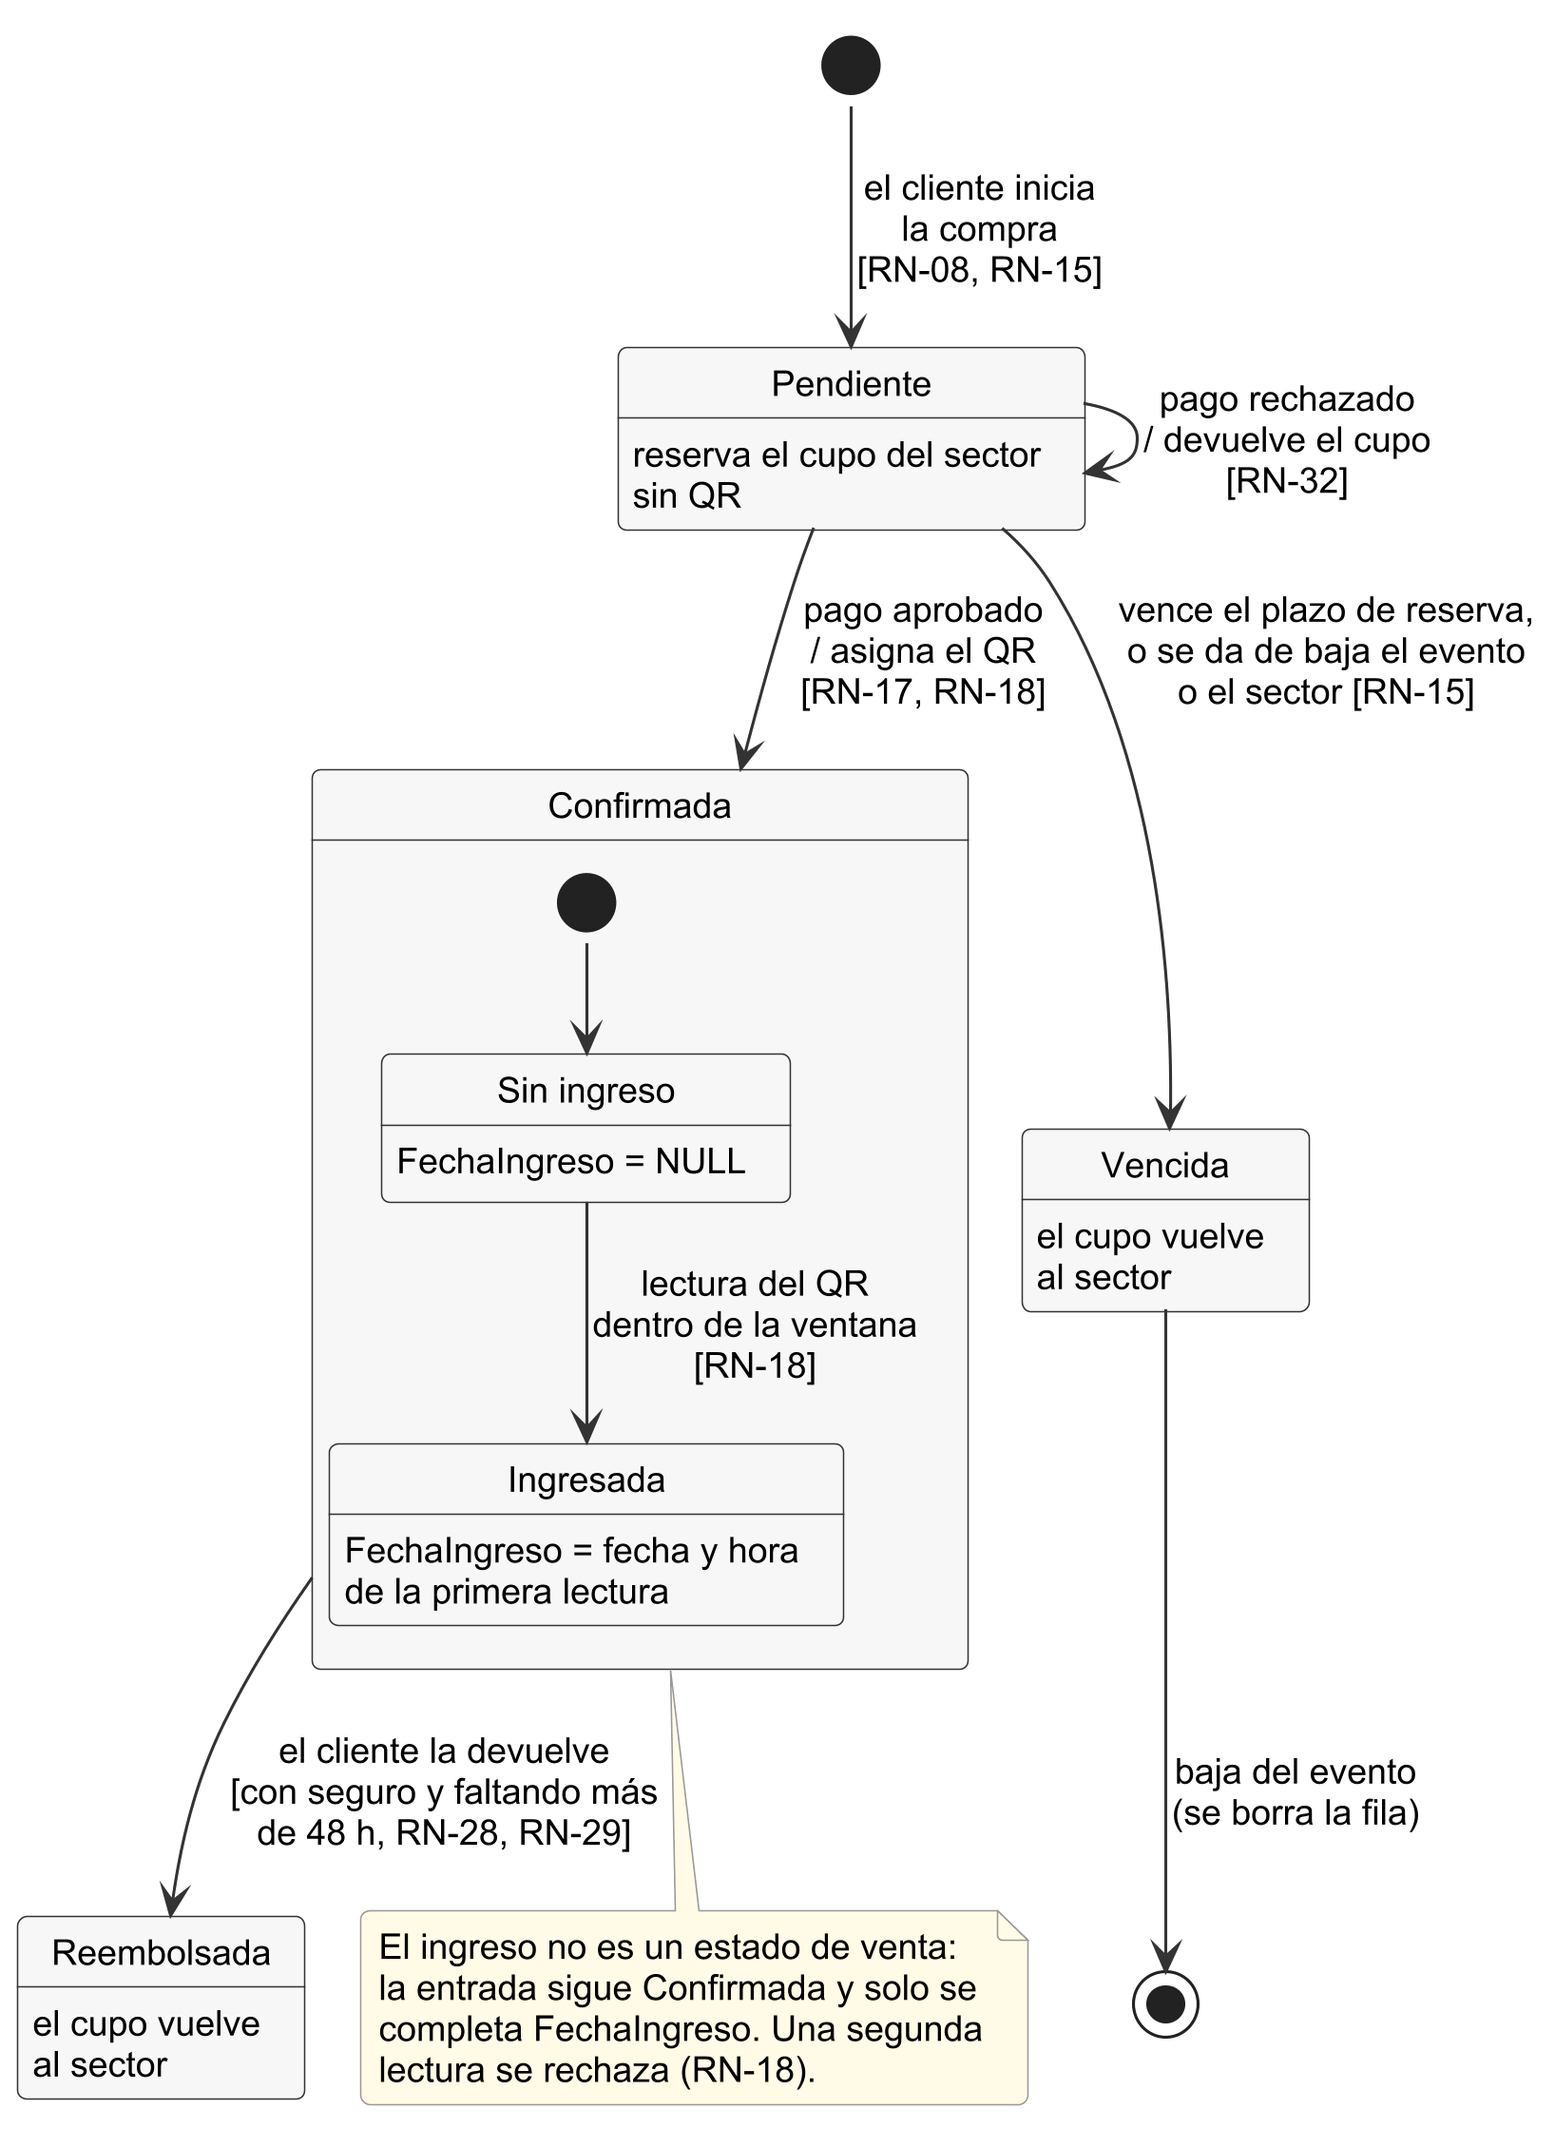
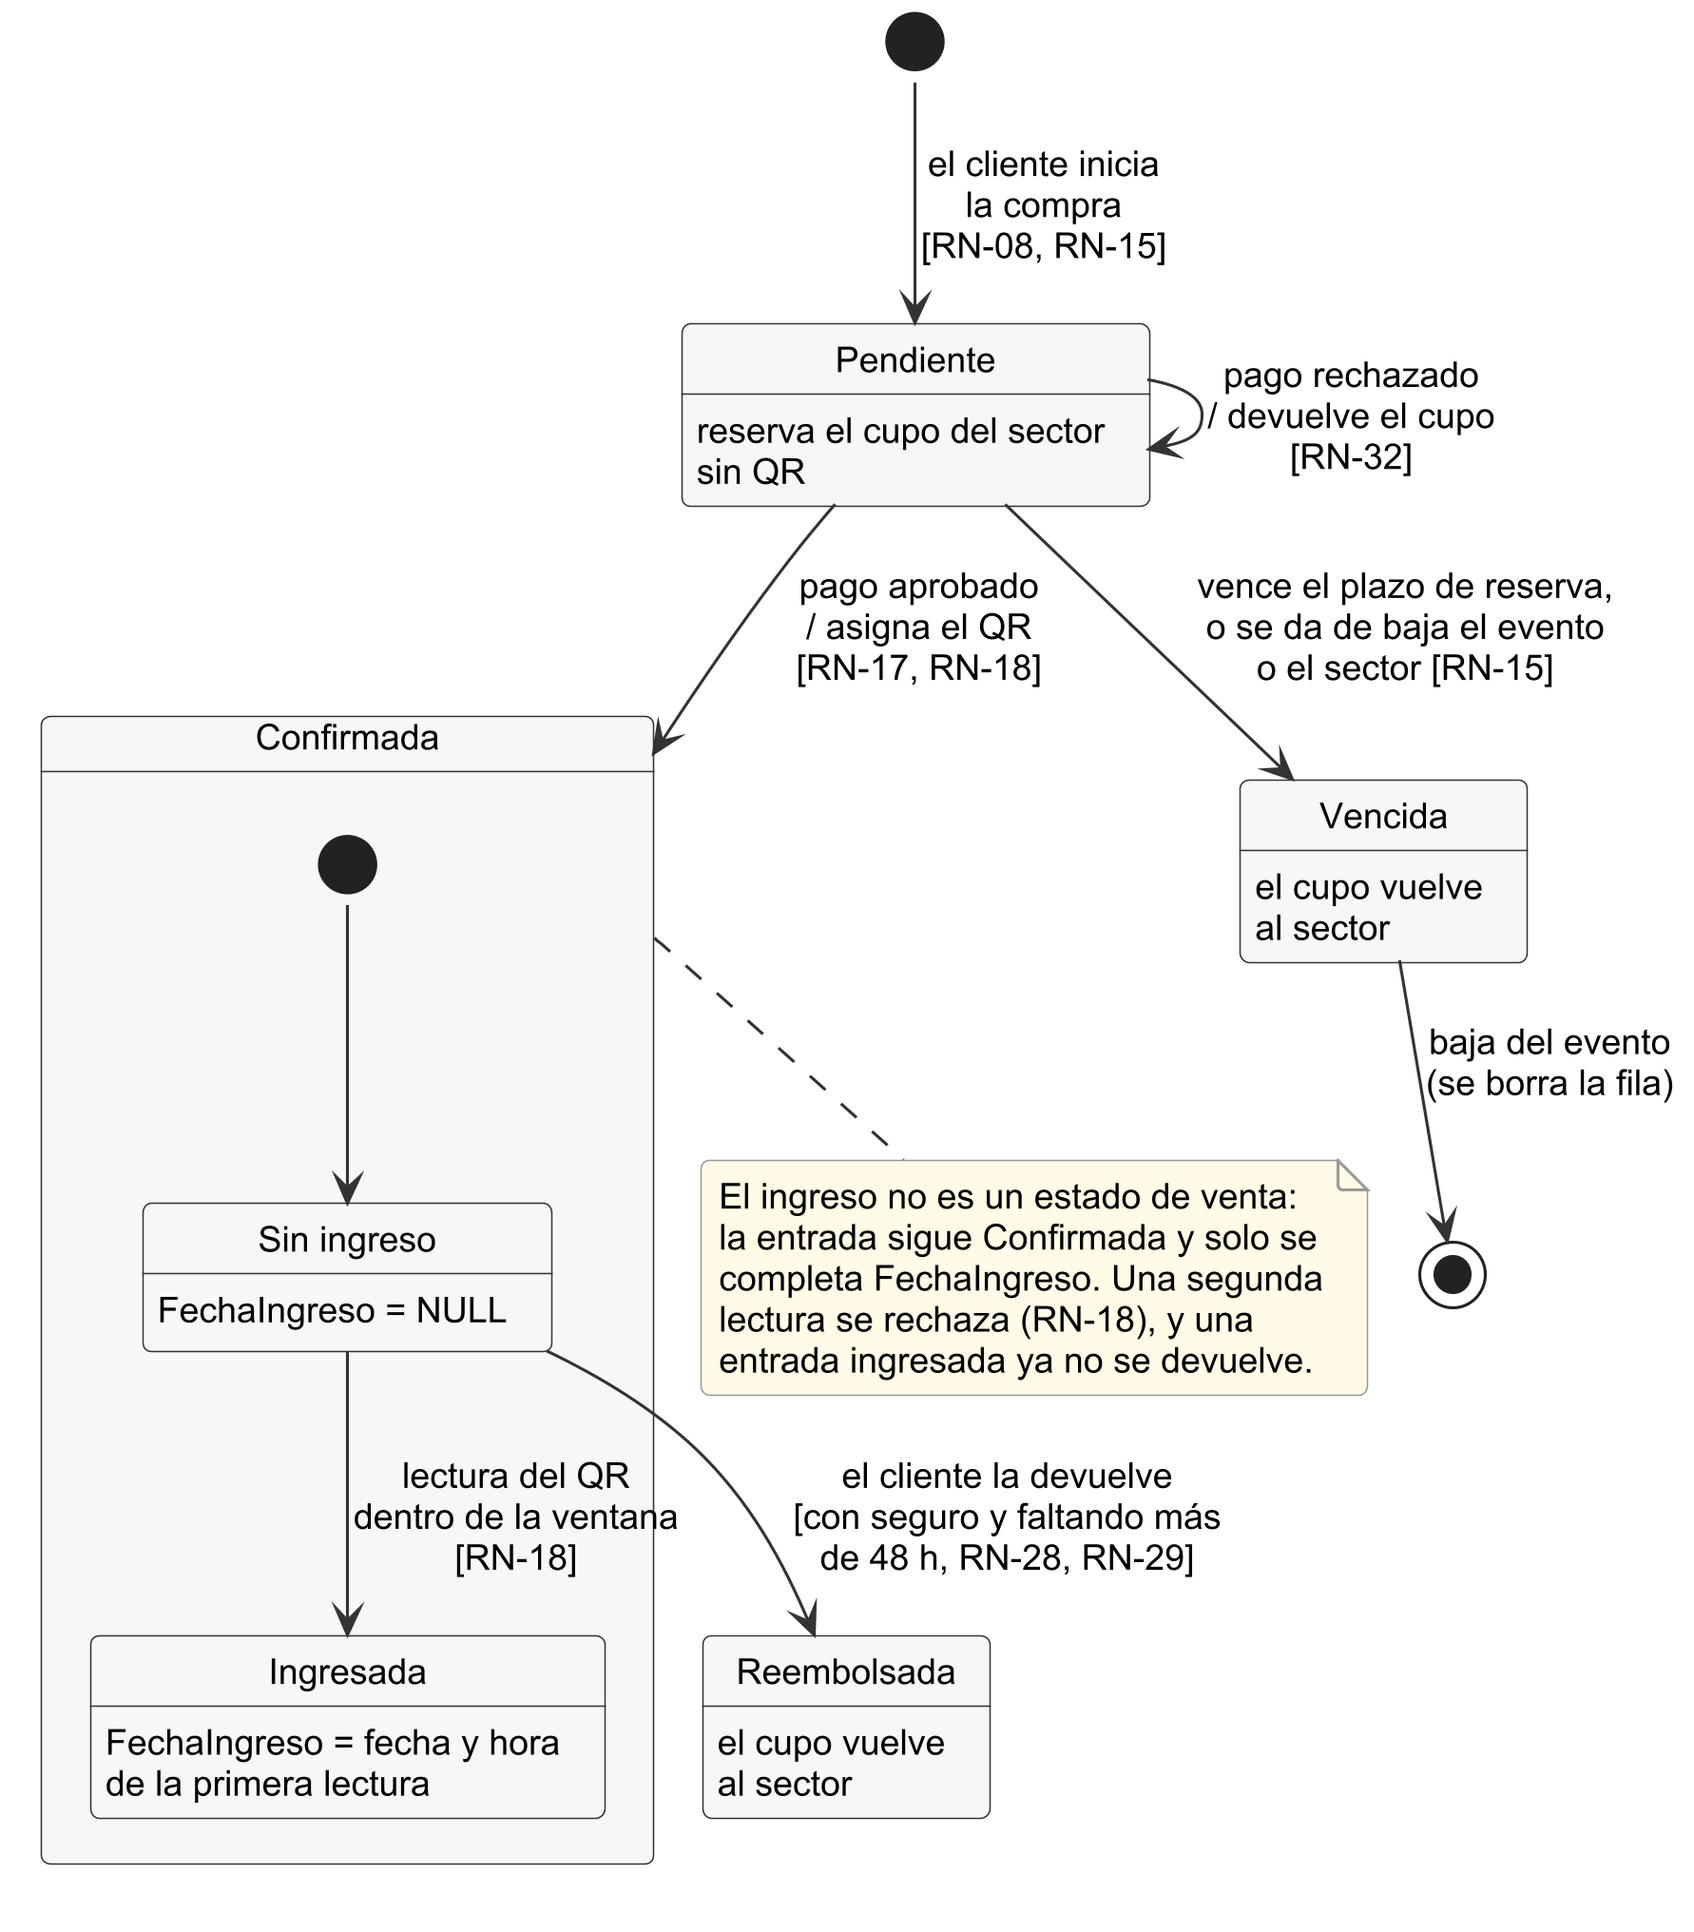
docs: revision externa de cuatro diagramas
- Estados: la devolucion sale de "Sin ingreso"; el diagrama permitia
  devolver una entrada ingresada, que el codigo rechaza. Regenerado.
- Entidad-relacion: por que Entradas guarda el usuario y que
  CantidadVendida vale 1 en cada fila (un QR por entrada, RN-18).
- Robustez: Cliente como actor y como entidad.
- Casos de uso: "Aplicar descuento" y "Pagar" se quedan, con
  justificacion para la defensa (no se pega).
- Filas en "Cambio despues del 16/11" para pp. 87, 88 y 89.

diff --git a/docs/PARA-MAXIMO-DIAGRAMAS.md b/docs/PARA-MAXIMO-DIAGRAMAS.md
@@ -95,6 +95,22 @@ El diagrama del administrador va en la página siguiente, con el título «Diagr
 | Administrador → Generar reportes | Asociación | — | `frmReportes` → `GestorReportes.Crear` / `Ejecutar` |
 | Exportar reporte a PDF → Generar reportes | «extend» | pide exportar | `frmReportes` → `GestorReportes.Exportar` |
 
+**Para la defensa (no se pega): «Aplicar descuento por nivel» y «Pagar la compra».** Criterio de
+JC del 17/11: se quedan. La descomposición funcional no está entre los 16 errores frecuentes del
+profesor (la regla 8 controla la dirección de «include» y «extend» y la condición de «extend», y
+las dos cumplen).
+- **Aplicar descuento por nivel** no es un objetivo del cliente: nadie entra al sistema a «aplicar
+  un descuento». Es un caso de uso de nivel de subfunción, que UML admite como destino de un
+  «include». Se dibuja por dos razones: el descuento por nivel es el diferencial del negocio
+  (OE-3, RF-08, RN-19 a RN-24), y así la regla tiene un lugar visible en el diagrama, trazable
+  hasta `GestorFidelizacion.CalcularDescuento`; y la compra lo ejecuta siempre, sin decisión del
+  cliente, que es lo que expresa el «include». Su comportamiento está especificado dentro de CU-01,
+  no en una especificación propia. Si el profesor pide quitarlo, se quita sin perder nada: el
+  descuento ya vive en CU-01.
+- **Pagar la compra** sí es defendible como objetivo del actor: el cliente paga con su tarjeta, en
+  una pantalla propia (`frmPago`), y el pago puede fallar y reintentarse (RN-32). Va como
+  «include» porque no hay compra sin pago.
+
 **Qué cambió respecto del diagrama viejo:**
 - **Desaparecen** «Ver carrito», «Modificar local», «Eliminar local» y «Gestionar stock de
   entradas», que el sistema no tiene. La pasarela de pago deja de ser un actor.
@@ -330,8 +346,8 @@ figura de ahí, una parte por página.
 |---|---|
 | Fuente | `docs/diagramas/fuentes/estados-entrada.puml` |
 | Imagen | `docs/diagramas/estados-entrada.png` |
-| Insertar a | **16,0 cm** de ancho (22,1 de alto, página entera) |
-| Letra impresa | 10,4 pt |
+| Insertar a | **16,0 cm** de ancho (18,2 de alto) |
+| Letra impresa | 9,5 pt |
 
 **Dónde va:** página 87, debajo de «Diagrama de estados – Ciclo de vida de la entrada».
 Reemplaza la figura de ahí. Como ocupa la página entera, el título pasa a la página nueva.
@@ -343,12 +359,13 @@ Reemplaza la figura de ahí. Como ocupa la página entera, el título pasa a la 
 > tabla `Entradas` y en las sentencias de la capa de datos. La entrada nace Pendiente al iniciarse
 > la compra, con el cupo del sector reservado; pasa a Confirmada cuando el pago se aprueba y recibe
 > su código QR; pasa a Vencida si vence el plazo de reserva o se da de baja el evento o el sector;
-> y pasa a Reembolsada si el cliente la devuelve con seguro contratado y con más de 48 horas de
-> anticipación.
+> y pasa a Reembolsada si el cliente la devuelve con seguro contratado, con más de 48 horas de
+> anticipación y antes de usarla para ingresar.
 >
 > El ingreso al evento no es un estado de venta: la entrada sigue Confirmada y solo se registra la
 > fecha y hora de la primera lectura del código QR. Por eso se modela como un subestado de
-> Confirmada, y no como un quinto estado. Una segunda lectura del mismo código se rechaza (RN-18).
+> Confirmada, y no como un quinto estado. Una segunda lectura del mismo código se rechaza (RN-18),
+> y una entrada que ya ingresó no se puede devolver: la devolución sale del subestado sin ingreso.
 
 **Justificación de transiciones:**
 
@@ -358,7 +375,7 @@ Reemplaza la figura de ahí. Como ocupa la página entera, el título pasa a la 
 | Pendiente → Pendiente | pago rechazado: devuelve el cupo | RN-32 | `GestorCompras.Liberar` → `RepositorioCompras.Liberar` |
 | Pendiente → Confirmada | pago aprobado: asigna el QR | RN-17, RN-18 | `RepositorioEntradas.cs:147`: `SET Estado = 'Confirmada' … WHERE Estado = 'Pendiente'` |
 | Pendiente → Vencida | vence el plazo, o baja del evento o del sector | RN-15 | `RepositorioCompras.MarcarVencidas` y `VencerAbiertas` |
-| Confirmada → Reembolsada | el cliente la devuelve | RN-28, RN-29 | `RepositorioCompras.cs:203`; el plazo, en `GestorCompras.Reembolsar` |
+| Sin ingreso → Reembolsada | el cliente la devuelve | RN-28, RN-29 | `RepositorioCompras.cs:203-204`: `WHERE … Estado = 'Confirmada' AND FechaIngreso IS NULL`; el plazo y el rechazo de una entrada ya usada, en `GestorCompras.Reembolsar` (`GestorCompras.cs:301`) |
 | Sin ingreso → Ingresada | primera lectura del QR dentro de la ventana | RN-18 | `RepositorioEntradas.cs:31-33`: `SET FechaIngreso … WHERE Estado = 'Confirmada' AND FechaIngreso IS NULL` |
 | Vencida → fin | baja del evento: se borra la fila | — | `RepositorioEventos.cs:172` |
 
@@ -366,6 +383,9 @@ Reemplaza la figura de ahí. Como ocupa la página entera, el título pasa a la 
 - **Desaparecen** «Disponible», «Reservada», «Vendida» y «Cancelada», que no existen.
 - **Aparece** «Vencida».
 - **El reembolso** ya no lo dispara un evento cancelado, sino el cliente.
+- **La devolución sale de «Sin ingreso»** (revisión externa de JC, 17/11): antes salía del borde de
+  Confirmada, y eso decía que se podía devolver una entrada ya ingresada, cosa que el código
+  rechaza.
 
 ---
 
@@ -397,6 +417,14 @@ página siguiente.
 > usuario). La relación entre Eventos y Servicios es de muchos a muchos y se resuelve con la tabla
 > intermedia ServiciosEvento. La contraseña se guarda como `PBKDF2$iteraciones$sal$hash`, nunca en
 > texto plano.
+>
+> La tabla Entradas proviene del esquema original, anterior a las compras. Por eso guarda el
+> usuario además de la compra, y por eso la compra y el sector son columnas agregadas después que
+> admiten valores nulos. El sistema escribe en cada entrada el mismo usuario de su compra, y nunca
+> crea una entrada sin compra ni sin sector. Cada fila es una sola entrada: la cantidad vendida
+> vale 1 en todas las filas que guarda el sistema, y cada una tiene su propio código QR, que se
+> admite una sola vez en el ingreso (RN-18). La cantidad elegida para cada sector existe solo
+> mientras se arma el paquete, que no se guarda en la base.
 
 **Restricciones que no entran en la figura** (van en el texto o en una tabla debajo):
 
@@ -572,6 +600,11 @@ de ahí, que era un diagrama de secuencia con los íconos de robustez.
 > fronteras solo con controles, y las entidades solo con controles. Los controles pueden
 > comunicarse entre sí: el control de la compra verifica la identidad del cliente, cobra con la
 > pasarela simulada, genera los códigos QR y usa los controles de paquetes y fidelización.
+>
+> El Cliente aparece dos veces, con dos papeles distintos: como actor es la persona que usa las
+> pantallas, y como entidad es la información que el sistema guarda de ella, su identidad para la
+> sesión y su nivel de fidelidad. El método distingue así a quien interactúa con el sistema de los
+> datos que el sistema conserva sobre él.
 
 **Justificación de conexiones:**
 

diff --git a/docs/LISTA-PARA-MAXIMO.md b/docs/LISTA-PARA-MAXIMO.md
@@ -50,6 +50,9 @@
 > | p. 109, oración inicial y tabla de brechas, filas G-02 y G-06 | G-02: «CP-11 a CP-148». G-06: la acción suma lo que corrigió la versión 2.6 y quedan cinco hallazgos, no diez; la oración inicial lo dice igual | La oración inicial y las dos filas |
 > | Sección nueva «Metodología de verificación» (después de la p. 109) | La medición final de mutación (73 de 77); «La batería…» dice ciento cuarenta y ocho casos y doscientas setenta y seis ejecuciones; el párrafo «En la medición final quedaron cuatro…» termina distinto (M-22 corregido) | **La sección entera**, desde su título hasta el párrafo «Qué queda fuera de la medición», inclusive. Es más seguro que buscar párrafo por párrafo |
 > | p. 111, trabajo futuro, punto 1 | Se borró «, y el regreso a un armado vacío de U-09» | La celda «Poner» del punto 1 |
+> | p. 87, diagrama de estados | La devolución sale ahora de «Sin ingreso», no del borde de «Confirmada»: una entrada ingresada no se puede devolver. La nota y los dos párrafos del texto lo dicen | La imagen `estados-entrada.png`, al mismo ancho (16,0 cm), y los dos párrafos del texto del diagrama |
+> | p. 88, texto del diagrama de robustez | Párrafo nuevo al final: por qué el Cliente aparece como actor y como entidad | Solo ese párrafo (está en su lugar de la lista) |
+> | p. 89, texto del entidad-relación | Párrafo nuevo al final: por qué Entradas guarda el usuario y qué es la cantidad vendida | Solo ese párrafo (está en su lugar de la lista) |
 > | pp. 52 y 53, figura 2 del instructivo | Pasa a una versión recortada, con otro archivo y otro ancho (10,7 cm) | La figura 2, si pegaste la entera. La figura 1 no cambia |
 
 > ## ⏸ NO PEGAR TODAVÍA: la lista completa
@@ -1830,12 +1833,13 @@ Texto:
 > tabla `Entradas` y en las sentencias de la capa de datos. La entrada nace Pendiente al iniciarse
 > la compra, con el cupo del sector reservado; pasa a Confirmada cuando el pago se aprueba y recibe
 > su código QR; pasa a Vencida si vence el plazo de reserva o se da de baja el evento o el sector;
-> y pasa a Reembolsada si el cliente la devuelve con seguro contratado y con más de 48 horas de
-> anticipación.
+> y pasa a Reembolsada si el cliente la devuelve con seguro contratado, con más de 48 horas de
+> anticipación y antes de usarla para ingresar.
 >
 > El ingreso al evento no es un estado de venta: la entrada sigue Confirmada y solo se registra la
 > fecha y hora de la primera lectura del código QR. Por eso se modela como un subestado de
-> Confirmada, y no como un quinto estado. Una segunda lectura del mismo código se rechaza (RN-18).
+> Confirmada, y no como un quinto estado. Una segunda lectura del mismo código se rechaza (RN-18),
+> y una entrada que ya ingresó no se puede devolver: la devolución sale del subestado sin ingreso.
 
 ## Página 88 — Robustez, dominio actualizado y actividad
 
@@ -1850,6 +1854,11 @@ Texto:
 > fronteras solo con controles, y las entidades solo con controles. Los controles pueden
 > comunicarse entre sí: el control de la compra verifica la identidad del cliente, cobra con la
 > pasarela simulada, genera los códigos QR y usa los controles de paquetes y fidelización.
+>
+> El Cliente aparece dos veces, con dos papeles distintos: como actor es la persona que usa las
+> pantallas, y como entidad es la información que el sistema guarda de ella, su identidad para la
+> sesión y su nivel de fidelidad. El método distingue así a quien interactúa con el sistema de los
+> datos que el sistema conserva sobre él.
 
 **Diagrama de dominio actualizado:** reemplazar la figura por dos, una por página:
 `dominio-actualizado-1-cuentas-catalogo.png` y `dominio-actualizado-2-compra.png`, las dos a
@@ -1921,6 +1930,14 @@ Debajo de «DER – Diagrama entidad-relación» (hoy la página tiene solo el t
 > usuario). La relación entre Eventos y Servicios es de muchos a muchos y se resuelve con la tabla
 > intermedia ServiciosEvento. La contraseña se guarda como `PBKDF2$iteraciones$sal$hash`, nunca en
 > texto plano.
+>
+> La tabla Entradas proviene del esquema original, anterior a las compras. Por eso guarda el
+> usuario además de la compra, y por eso la compra y el sector son columnas agregadas después que
+> admiten valores nulos. El sistema escribe en cada entrada el mismo usuario de su compra, y nunca
+> crea una entrada sin compra ni sin sector. Cada fila es una sola entrada: la cantidad vendida
+> vale 1 en todas las filas que guarda el sistema, y cada una tiene su propio código QR, que se
+> admite una sola vez en el ingreso (RN-18). La cantidad elegida para cada sector existe solo
+> mientras se arma el paquete, que no se guarda en la base.
 
 ## Páginas 90 a 97 — Informe de pruebas de usabilidad
 

diff --git a/docs/MATRIZ-COHERENCIA.md b/docs/MATRIZ-COHERENCIA.md
@@ -48,6 +48,24 @@ y el código de `dba674c`.
   usabilidad de la versión 2.6, que deja cinco abiertos. Corregido: cinco, 7 horas estimadas
   (1,75 puntos de la tabla del plan de mejora del informe de usabilidad).
 
+### Revisión externa de JC (17/11), sobre cuatro diagramas
+
+JC revisó por su cuenta el entidad-relación, el de estados, el de robustez y el de casos de uso,
+porque eran lo único del proyecto que había hecho y verificado el mismo agente.
+
+- **Estados, contradicción con el código, corregida.** La devolución salía del borde de
+  Confirmada, así que el diagrama permitía devolver una entrada ya ingresada. El código lo rechaza
+  dos veces (`GestorCompras.cs:301` y el `UPDATE` de `RepositorioCompras.cs:203-204`, con
+  `FechaIngreso IS NULL`). Ahora sale de «Sin ingreso». **Esta matriz no lo vio:** la comprobación 2
+  compara las listas de estados, no las transiciones. Queda como límite del instrumento.
+- **`Entradas.CantidadVendida`:** se usa y vale siempre 1 en lo que se guarda (`GestorCompras.cs:74-82`
+  y las dos semillas); el valor mayor que 1 vive solo en el paquete en memoria. RN-18 no queda
+  ambigua: un QR por fila, una fila por entrada. Aclarado en el texto del entidad-relación.
+- **`Entradas.ID_Usuario`** y **el Cliente como actor y como entidad** en robustez: contestados en
+  el texto de cada diagrama.
+- **«Aplicar descuento por nivel»:** se queda; justificación para la defensa en
+  `docs/PARA-MAXIMO-DIAGRAMAS.md`, sección 1.
+
 ## De dónde salió la matriz
 
 No estaba en el repositorio. Apareció en el disco, fuera de él, buscando por contenido:
